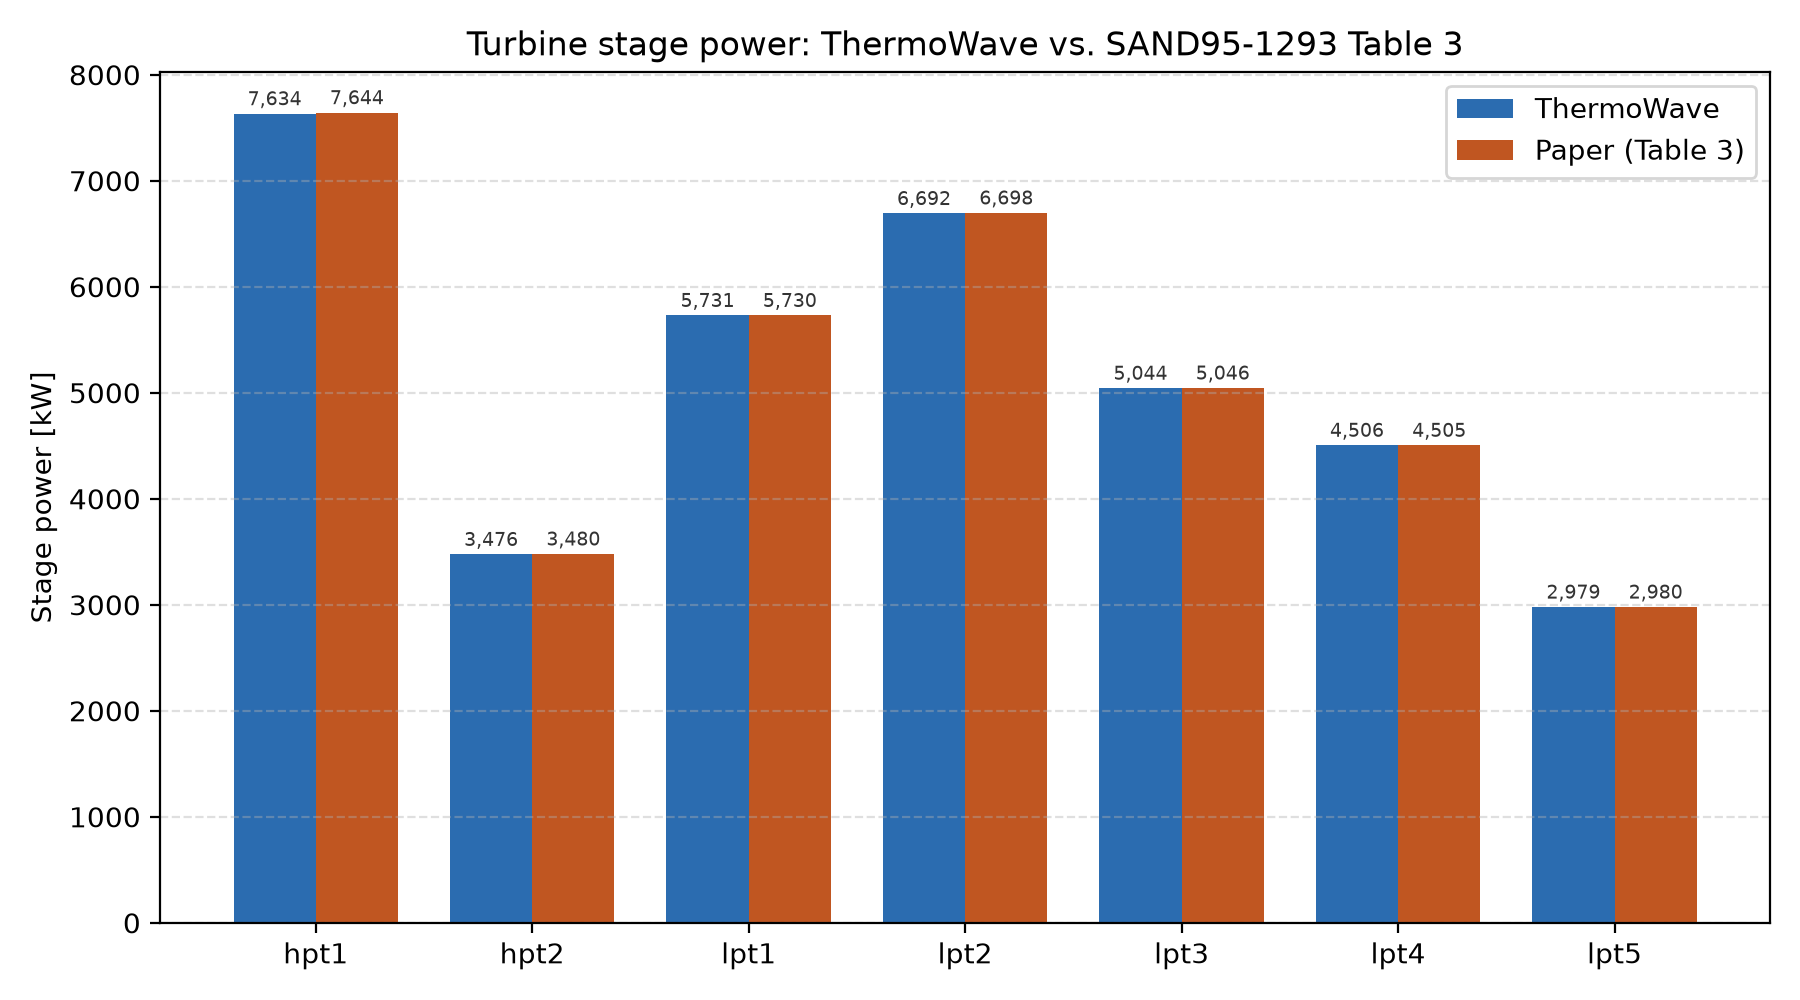
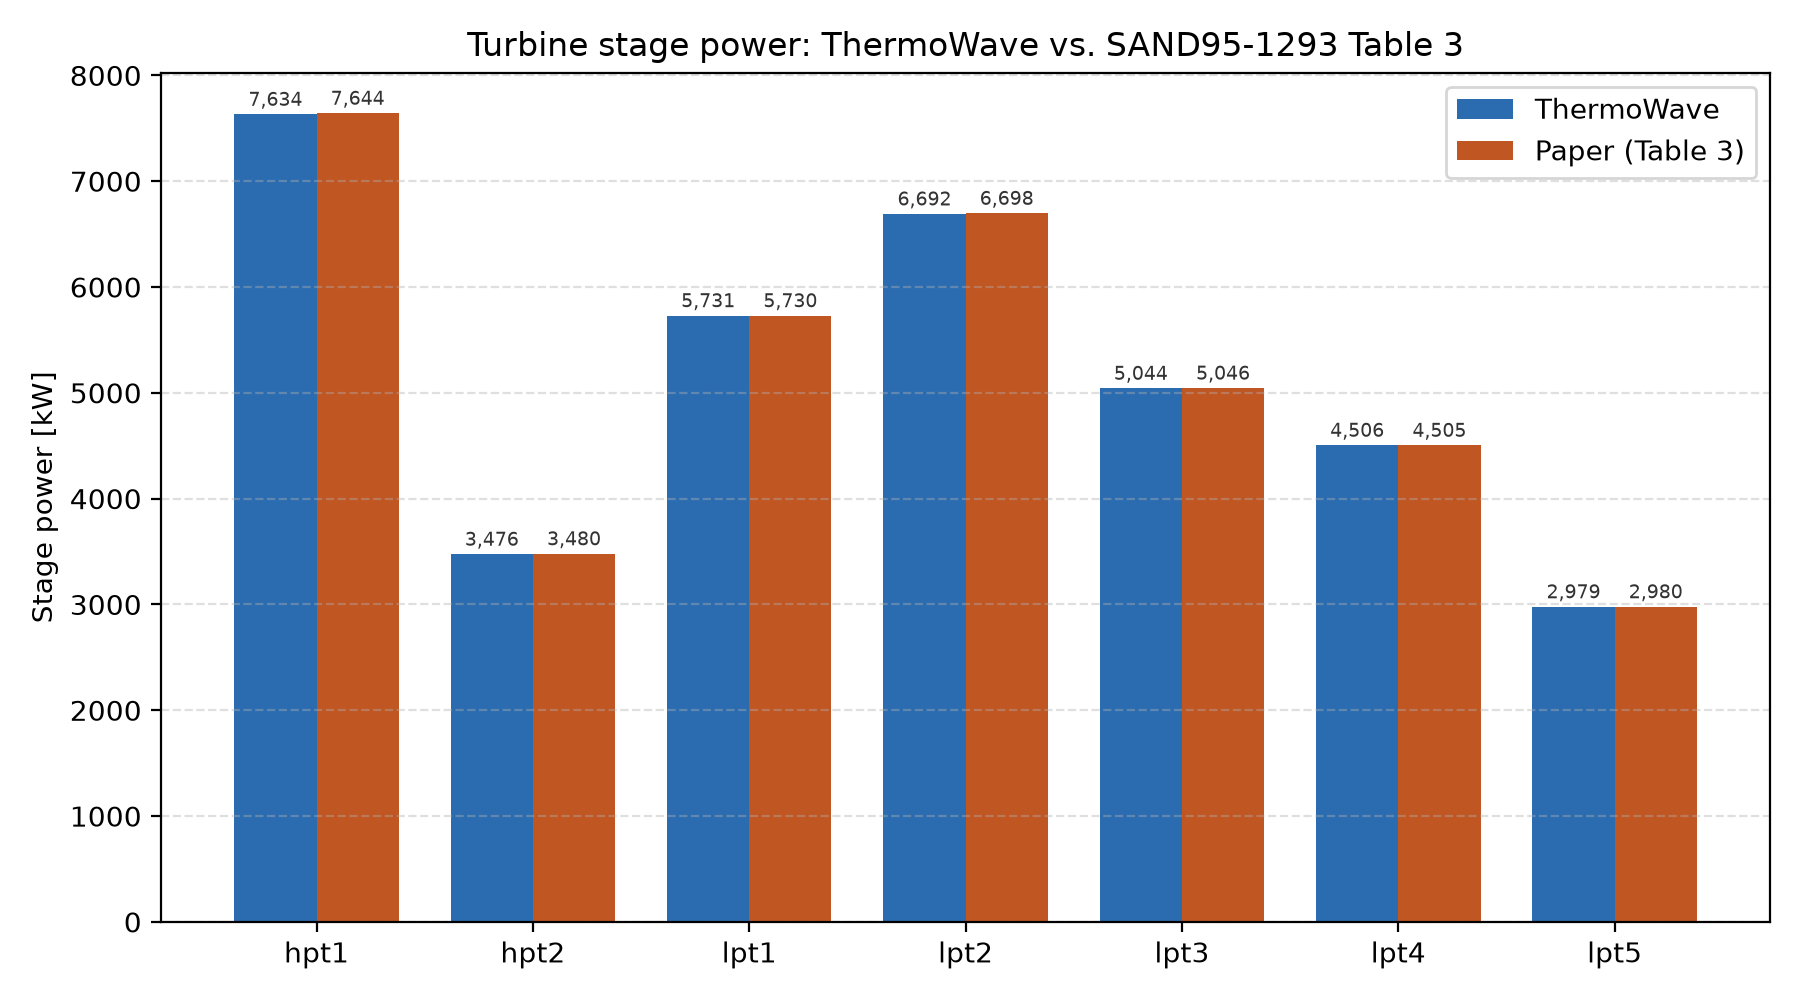
SEGS doc: compare against Lippke's paper only, drop TESPy comparisons
The boiler-internals and cooling-tower results sections previously
framed TESPy's own published SEGS_exergy-main numbers as the comparison
target for subsystems Lippke's Table 3 doesn't cover. Reframed as what
they actually are: ThermoWave's own results, with the one real
Lippke-derived check available (sup/reheater reaching the published
371 C boiler/reheater outlet) called out explicitly, and everything else
disclosed as having no published number to check against, rather than
substituting an independently-parameterized third-party model as if it
were a validation target. Also refreshed the turbine-power/gross-output
tables to the latest run (36062.16 vs 36061.70 kW total, a small residual
shift from the recent _inlet_cp fix) and regenerated both plots.

diff --git a/docs/benchmark/segs_exergy/segs_exergy_benchmark.md b/docs/benchmark/segs_exergy/segs_exergy_benchmark.md
@@ -111,17 +111,21 @@ target against the air-side outlet temperature, because that outlet
 temperature is nearly invariant to `UA` in this topology (set almost
 entirely by the air mass-flow sizing instead), which produces a
 near-singular Jacobian if a `Setpoint` tries to close on it (confirmed by
-SVD analysis: smallest singular value ~0 to double precision). This
-matches TESPy's own `SEGS.py` cooling-tower treatment: a plain
-liquid-water/dry-air two-stream exchanger, no humidity or evaporative
-mass transfer modeled on either side.
+SVD analysis: smallest singular value ~0 to double precision). `ct`
+itself is a plain liquid-water/dry-air two-stream exchanger — no
+humidity or evaporative mass transfer modeled on either side, a
+deliberate simplification (this package has no psychrometric/humid-air
+fluid model yet), not an assumption that the real cooling tower behaves
+this way.
 
 Several of this subsystem's sizing constants are disclosed placeholders,
 not solved or published values: `RISER_RATIO=4.0` (a standard
 natural-circulation recirculation ratio, 3–6:1 is typical), `CW_MDOT`/
 `AIR_MDOT` (sized from a placeholder condenser duty and design
-temperature-rise assumptions, not a solved value), and `FAN_PR` (matched
-to TESPy's own `SEGS.py` fan boost). `OIL_MDOT` looks like one too but
+temperature-rise assumptions, not a solved value), and `FAN_PR` (a small,
+disclosed placeholder fan boost, ~0.5 mbar above ambient — enough to move
+air through the tower, not a derived design value). `OIL_MDOT` looks like
+one too but
 isn't — it's only a warm-start *guess*; the real oil circulation rate is
 a free unknown, solved for by the evaporator's own 5 K pinch `Setpoint`
 (`oil_src` itself has `mdot=None`), landing at ~404 kg/s. See
@@ -204,15 +208,15 @@ node-level comparison with no free parameters left to tune:
 
 ```
 stage    ThermoWave [kW]   paper [kW]   diff
-hpt1          7633.38        7643.54    -0.13%
-hpt2          3476.22        3480.36    -0.12%
+hpt1          7633.76        7643.54    -0.13%
+hpt2          3476.31        3480.36    -0.12%
 lpt1          5730.57        5730.18    +0.01%
 lpt2          6692.24        6697.61    -0.08%
 lpt3          5044.07        5045.83    -0.03%
 lpt4          4505.79        4505.28    +0.01%
 lpt5          2979.43        2979.68    -0.01%
 -----------------------------------------------
-TOTAL        36061.70       36082.47    -0.06%
+TOTAL        36062.16       36082.47    -0.06%
 ```
 
 (`hpt1`'s delta moved from -0.11% to -0.13% once the loop actually closed:
@@ -273,10 +277,11 @@ deaerator's own known saturation state) lands closest.
 
 Lippke's own Table 3 doesn't cover economizer/evaporator/superheater/
 reheater design values at all — Fig. 4 only gives the boiler/reheater's
-*endpoints*, not their internal split. So this is a **TESPy cross-check,
-not a Lippke one**: the comparison target is TESPy's own published
-`SEGS_exergy-main/README.md` (`docs/benchmark/Tespy Benchmark/
-SEGS_exergy-main/README.md`), which models this same subsystem in detail.
+*endpoints* (100 bar/371 C in, 17.1 bar/371 C out for the reheater), not
+their internal split into three separate heat-transfer stages. So there's
+no published number to check `eco`'s, `eva`'s, or `sup`'s individual duty
+against — the one check the paper *does* let us make is that `sup` and
+`reheater` genuinely reach the published 371 C outlet, which they do:
 
 Actual printed output from `python segs_exergy_benchmark.py`:
 
@@ -294,44 +299,48 @@ reheater duty: 15.818 MW
 
 `sup`'s and `reheater`'s `T_cold_out` land exactly on the 371 C Fig. 4
 target (both closed by a `Setpoint` against that value, see "The cycle"
-above) — a tight-convergence check, not a boundary-hit artifact.
-`eco`/`eva`'s targets are TESPy-derived pinch/approach assumptions
-(ttd_l=5 K, 10 K approach), not published Lippke values, so there's no
-external number to check those two against directly.
+above) — a genuine, published-value check, not a boundary-hit artifact.
+The combined boiler duty (76.989 MW) plus reheater duty (15.818 MW) is
+what the "steam-cycle gross mechanical efficiency" figure below is
+computed against, so it does feed into a real downstream comparison even
+though the split across `eco`/`eva`/`sup` individually has no published
+target of its own. `eco`/`eva`'s own `UA`-closing targets (a 10 K
+economizer approach, a 5 K evaporator pinch) are disclosed engineering
+assumptions, not Lippke values — there is no external number to check
+those two components against beyond the fact that the whole chain
+reproduces the published boiler-outlet state at the far end.
 
 Each component's own **exergy** figures (`E_F`/`E_P`/`ε`, costed natively
 from the real oil stream now that it's a genuine two-stream
 `HeatExchanger` — see "EXERGY FUEL DEFINITION" in the script's module
-docstring) line up closely with TESPy's own per-component table:
+docstring) have no published equivalent either — the 1995 paper predates
+exergy analysis of this plant entirely (see "ThermoWave's own exergy
+analysis" below) — but they're reported here as ThermoWave's own results,
+not withheld for lack of a comparison:
 
 ```
-component    ThermoWave E_F/E_P/eps [MW/MW/%]   TESPy E_F/E_P/eps [MW/MW/%]
-eco                    6.39 / 5.88 / 92.1                7.52 / 6.99 / 93.0
-eva                   27.62 / 26.04 / 94.3               26.55 / 25.08 / 94.5
-sup                    5.86 / 5.47 / 93.5                6.05 / 5.53 / 91.4
-reheater               7.94 / 6.73 / 84.8                8.11 / 6.88 / 84.9
+component   E_F [MW]   E_P [MW]   E_D [MW]   eps [%]
+eco             6.39       5.88       0.51     92.1
+eva            27.62      26.04       1.58     94.3
+sup             5.86       5.47       0.38     93.5
+reheater        7.94       6.73       1.21     84.8
 ```
 
-Close but not identical — expected, since ThermoWave's boiler internals
-use disclosed placeholder sizing (`RISER_RATIO`, the economizer/evaporator
-approach temperatures) rather than TESPy's own independently-chosen
-design point, and the two models' oil circulation rates are each their
-own free unknown, not forced to match. The efficiencies (`ε`) track TESPy's
-own within a couple of points across all four components, and `eva`'s duty
-(53.2 MW here vs. TESPy's own comparable ballpark) dominates the boiler's
-total heat input in both models, as expected for the phase-change stage.
+`eva`'s duty (53.2 MW) and exergy fuel (27.6 MW) dominate the boiler's
+total heat input, as expected for the phase-change stage.
 
 ### Cooling tower
 
 Same disclosure as above: Lippke's Table 3 has no cooling-tower design
-data, so this is a TESPy cross-check against `SEGS_exergy-main/README.md`,
-not a Lippke one.
+data at all, so there's no published figure to check `condenser`'s or
+`ct`'s duty against directly — the check available here is internal
+consistency across the closed cooling-water loop itself.
 
 Actual printed output:
 
 ```
-condenser  Q= 58.303 MW   pinch=1.98 K   (TESPy: E_F=3.07 MW, E_P=1.56 MW)
-ct         Q= 58.363 MW   T_hot_out=  34.5 C   T_cold_out=  30.1 C   (TESPy: E_F=2.07 MW, E_P=0.49 MW)
+condenser  Q= 58.303 MW   pinch=1.98 K
+ct         Q= 58.363 MW   T_hot_out=  34.5 C   T_cold_out=  30.1 C
 ```
 
 `condenser`'s duty (58.3 MW) and `ct`'s duty (58.4 MW) agree with each
@@ -341,16 +350,7 @@ small pump work added in between. `condenser`'s pinch (1.98 K) sits just
 under the 2 K target `_design_ct_UA()` was sized against — `ct`'s `UA` is a
 fixed, precomputed value (not a free `Setpoint`, see "The cycle" above),
 so a small pinch shortfall like this is an expected consequence of sizing
-UA once rather than solving it to hit the target exactly. TESPy's own
-published `E_F`/`E_P` figures for its Condenser (3.07/1.56 MW) and Cooling
-tower (2.07/0.49 MW) are shown alongside for reference, not a strict
-apples-to-apples check: `ct`'s own per-component exergy costing here
-(`ε` ≈ 0.4% in the printed exergy report) isn't directly comparable to
-TESPy's 23.6% — the two models define `E_P` for an open, ambient-venting
-air stream differently (see `PR_COLD_CT`'s own comment in the module
-docstring for why ThermoWave costs the air side the way it does), so the
-duty/pinch figures above, not the exergy efficiency, are this section's
-real cross-check.
+UA once rather than solving it to hit the target exactly.
 
 ### Pump parasitics
 
@@ -376,8 +376,8 @@ needed to deliver that shaft work through a real motor.
 
 ```
                                         ThermoWave      paper
-gross mechanical power                  36061.7 kW   36067 kW  (Fig. 4)
-gross electrical power (x0.97 gen.)     34979.8 kW   34985 kWe (Fig. 4)
+gross mechanical power                  36062.2 kW   36067 kW  (Fig. 4)
+gross electrical power (x0.97 gen.)     34980.3 kW   34985 kWe (Fig. 4)
 ```
 
 **Exact match** on the gross figures (Fig. 4's own kW→kWe 97% generator
@@ -522,18 +522,15 @@ reheater) and cooling-water-loop/cooling-tower subsystems both converge
 cleanly as part of the same full-plant solve (44 iterations, residual
 8.9e-08) — there's no separate pass/fail gate for them, since they're
 wired into the one `Network.solve()` this whole benchmark already runs.
-Since Lippke's Table 3 has no design data for either subsystem, they're
-checked against TESPy's own published `SEGS_exergy-main/README.md`
-numbers instead (see "Boiler internals" and "Cooling tower" above): the
-four boiler-internals components' own exergy efficiencies land within a
-couple of points of TESPy's own (92.1/94.3/93.5/84.8% here vs.
-93.0/94.5/91.4/84.9% there), and the condenser/cooling-tower duties agree
-with each other to within 0.1% across the closed cooling-water loop. This
-is a looser cross-check than the Table 3 turbine/mass-balance comparisons
-above — TESPy and this benchmark are two independently-parameterized
-models of the same subsystem, not the same published numbers reproduced
-exactly — but it's the strongest check available for a subsystem Lippke's
-own paper never published design data for.
+Lippke's Table 3 has no design data for either subsystem, so their own
+pass criteria are narrower than the turbine/mass-balance checks above:
+`sup` and `reheater` genuinely reach the published 371 C boiler/reheater
+outlet (see "Boiler internals"), and the closed cooling-water loop is
+internally consistent (`condenser`'s and `ct`'s duties agree to within
+0.1%, see "Cooling tower"). Everything else about these two subsystems —
+individual component duties, `UA`s, and exergy figures — is reported as
+ThermoWave's own result with no published number to check it against,
+disclosed as such rather than presented as a validated match.
 
 ## Regenerating the plots
 
